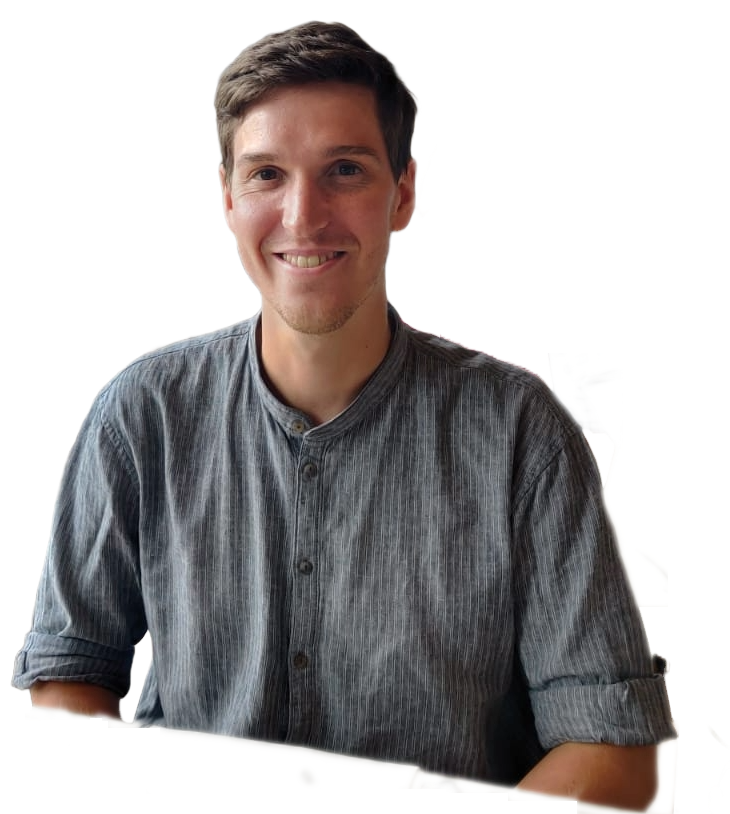
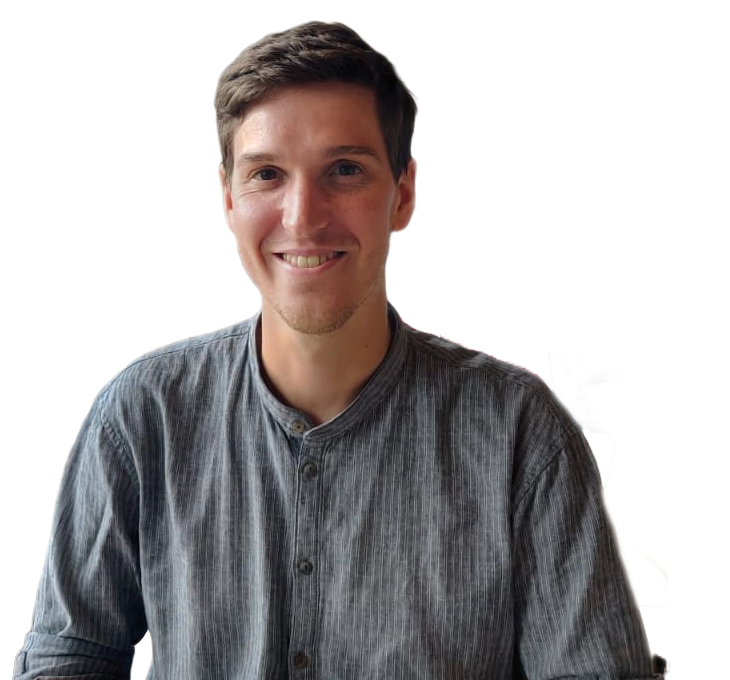
Crop phone hero photo at a straight line so the cut is never visible
The bottom edge of the torso in the original photo slopes by ~120px, so
aligning the image bottom with the hero still showed blue wedges under
the shirt. Crop robin-cropped.png horizontally at the top of that slope
(y=1300 in the original) so its bottom row is fully opaque, and let the
photo use a bit more height in portrait.

Claude-Session: https://claude.ai/code/session_0142JEPee5BzmsFy4RPKH5nC

diff --git a/src/app/hero/hero-area/hero-area.component.scss b/src/app/hero/hero-area/hero-area.component.scss
@@ -255,7 +255,7 @@ app-bubble:nth-of-type(2) {
             width: auto;
             height: auto;
             max-width: min(88vw, 460px);
-            max-height: 52dvh;
+            max-height: 58dvh;
             object-fit: contain;
             transform: none;
         }
